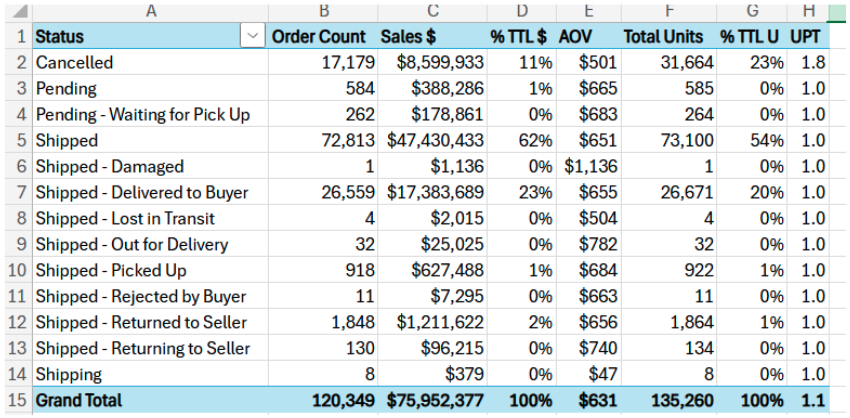
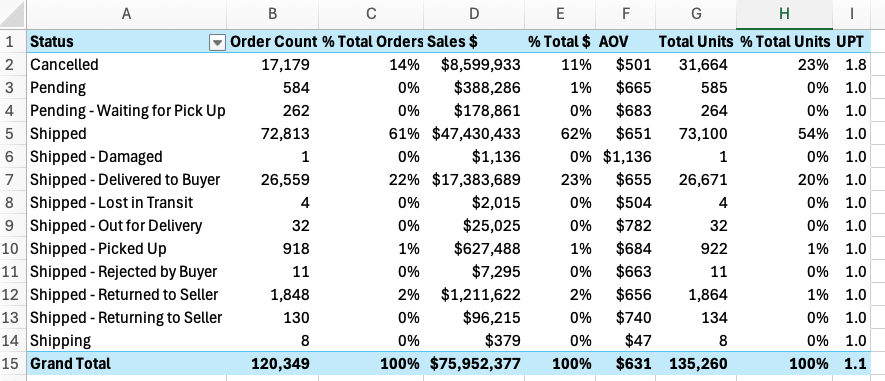
clarification of instructions
clarify some instructions, consistency fixes

diff --git a/content/spreadsheet-mastery/exercises-2/_index.md b/content/spreadsheet-mastery/exercises-2/_index.md
@@ -47,29 +47,30 @@ By completing this exercise, you will:
 
 ### 2. Create core PivotTables:
 
-   - Create a comprehensive PivotTable showing `Order Count`, `Sales $`, `% TTL Orders`, `% TTL Sales $`, `AOV`, `Total Units`, `% TTL Units`, and `UPT by Status` (Status in rows, values in columns):
+   - Create a comprehensive PivotTable showing `Order Count`, `Sales $`, `% Total Orders`, `% Total Sales $`, `AOV`, `Total Units`, `% Total Units`, and `UPT by Status` (Status in rows, values in columns):
 
    ![pivot tables required](./pictures/pivot-tables-required.png)
 
    - Test different layout options (values in rows vs. columns, status positioning) to determine optimal presentation
    - Create focused single-metric PivotTables: `Order Count by Status`, `Sales $ by Status`, `Unit Count by Status`
-   - Build time-based analysis: `AOV by Date` (Date in rows, values in columns)
    - Create performance metrics table: `UPT by Status`
-   - Generate percentage breakdowns: `% Total Orders`, `% Total Sales $`, and `% Total Units` by status
+   - Generate a single PivotTable of percentage breakdowns: `% Total Orders`, `% Total Sales $`, and `% Total Units` by status
 
 ### 3. Develop advanced analysis components:
-   - Create identical analysis using `Fulfillment_Status` instead of `Status`
+   - Create a set of identical PivotTables to those above, now using `Fulfillment_Status` instead of `Status`
+   - Build time-based analysis: `AOV by Date` (Date in rows, values in columns)
    - Build hierarchical analysis combining `ship-service-level` and `Fulfillment_Status` 
    - Design cross-category analysis: `Order Count by Sales Channel` and `Status`
    - Build ranked analysis: `Sales $` with numerical ranking by `Status` (sorted largest to smallest)
+
 ### 4. Apply professional formatting:
    - Apply different PivotTable Styles to each component to explore design options for your final dashboard
    - Test various formatting approaches using PivotTable Styles and Options menus
    - Choose formatting that enhances readability and professional appearance
 
 ### 5. Organize components across worksheets:
-   - Move each PivotTable to its own worksheet using the Move PivotTable function
-   - Rename worksheets with descriptive numbers (1, 2, 3, etc.) that align with component purposes
+   - Move each PivotTable to its own worksheet using the Move PivotTable function. You should have a total of 16 PivotTables.
+   - Rename worksheets with descriptive names that align with each component purpose
    - This provides space for slicers, timelines, and charts while maintaining organization
 
 ### 6. Add interactive controls:
@@ -93,7 +94,8 @@ Your department director has requested a status update on the component and styl
 
 **Before submitting, confirm:**
 - All PivotTables display data correctly and update with slicer/timeline changes
-- Formatting is professional and consistent across components
-- Charts are visually appealing and complement their respective PivotTables
+- Formatting is professional, and components use a variety of different formatting options to showcase possibilities for final dashboard product
+- Charts are visually appealing and complement their respective PivotTables.
+- Charts have appropriate titles and labels
 - Worksheets are properly organized and labeled
 - Interactive controls (slicers/timelines) function as expected 
